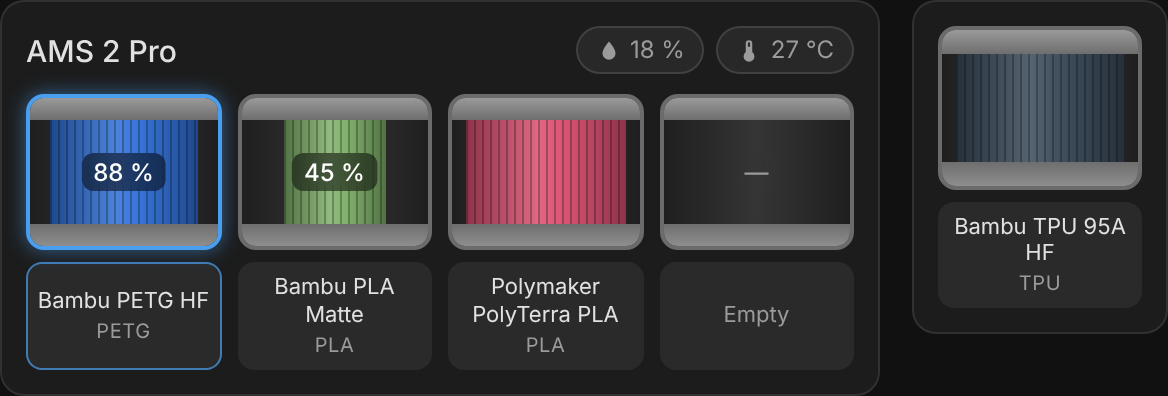
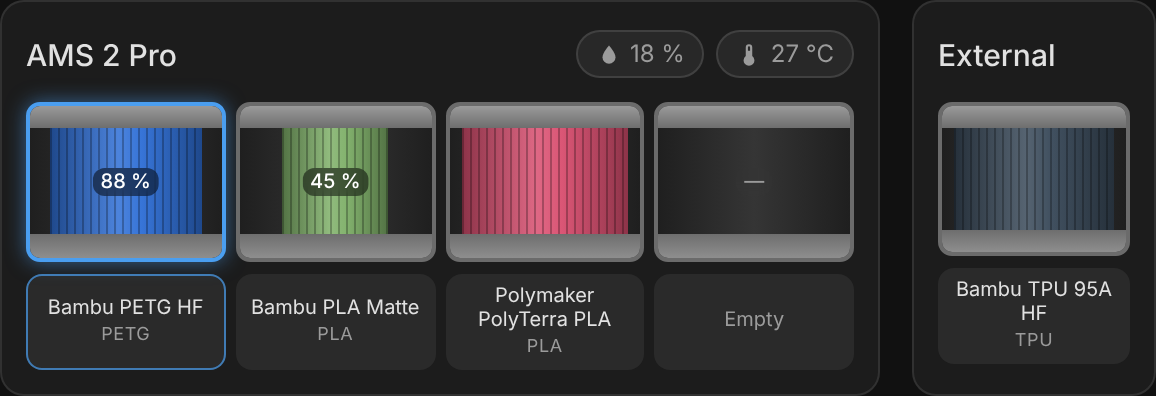
Filament cards fill the grid row height; aligned screenshots
Cards placed side by side now have the same height and their spools line
up when both have a title. README screenshots updated.

Claude-Session: https://claude.ai/code/session_01SUarsSoSxf9eoMYcUKLv7D

diff --git a/bambulab-card.js b/bambulab-card.js
@@ -647,9 +647,11 @@ function bbfSlot(hass, entityId, cfg, ovr) {
 }
 
 const BBF_STYLE = `
-  ha-card { padding: 12px; overflow: hidden; }
+  :host { display: block; height: 100%; }
+  ha-card { padding: 12px; overflow: hidden; height: 100%; box-sizing: border-box; display: flex; flex-direction: column; }
+  #body { flex: 1; }
   .warn { font-size: 13px; color: var(--secondary-text-color); }
-  .hdr { display: flex; align-items: center; justify-content: space-between; gap: 8px; margin-bottom: 10px; min-height: 24px; }
+  .hdr { display: flex; align-items: center; justify-content: space-between; gap: 8px; margin-bottom: 10px; min-height: 28px; }
   .hdr.notitle { justify-content: flex-end; }
   .ttl { font-size: 15px; font-weight: 500; white-space: nowrap; overflow: hidden; text-overflow: ellipsis; }
   .chips { display: flex; gap: 6px; flex-wrap: wrap; justify-content: flex-end; }

diff --git a/README.md b/README.md
@@ -140,6 +140,8 @@ type: custom:bambulab-spool-card
 spool: <device_id>            # the External Spool device (or entity: sensor.xxx_external_spool)
 ```
 
+Tip: next to an AMS card, give the spool card a `title` too (e.g. *External*) – both cards then line up exactly.
+
 | Option | Cards | Default | Description |
 | --- | --- | --- | --- |
 | `printer` | filament | – | **Required.** Printer device |
